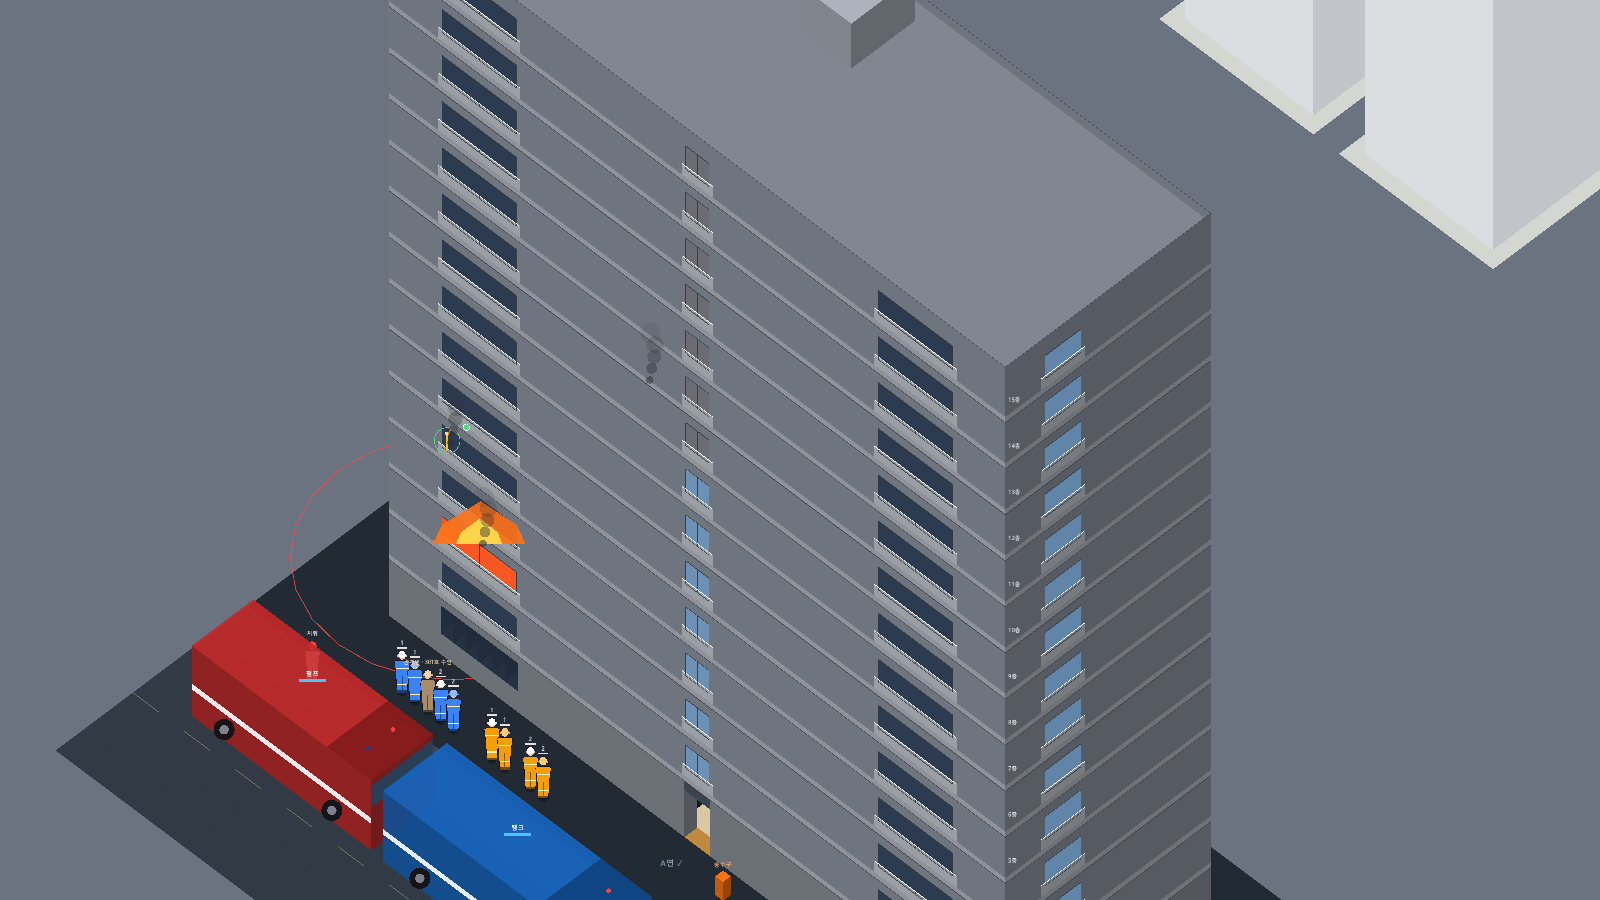
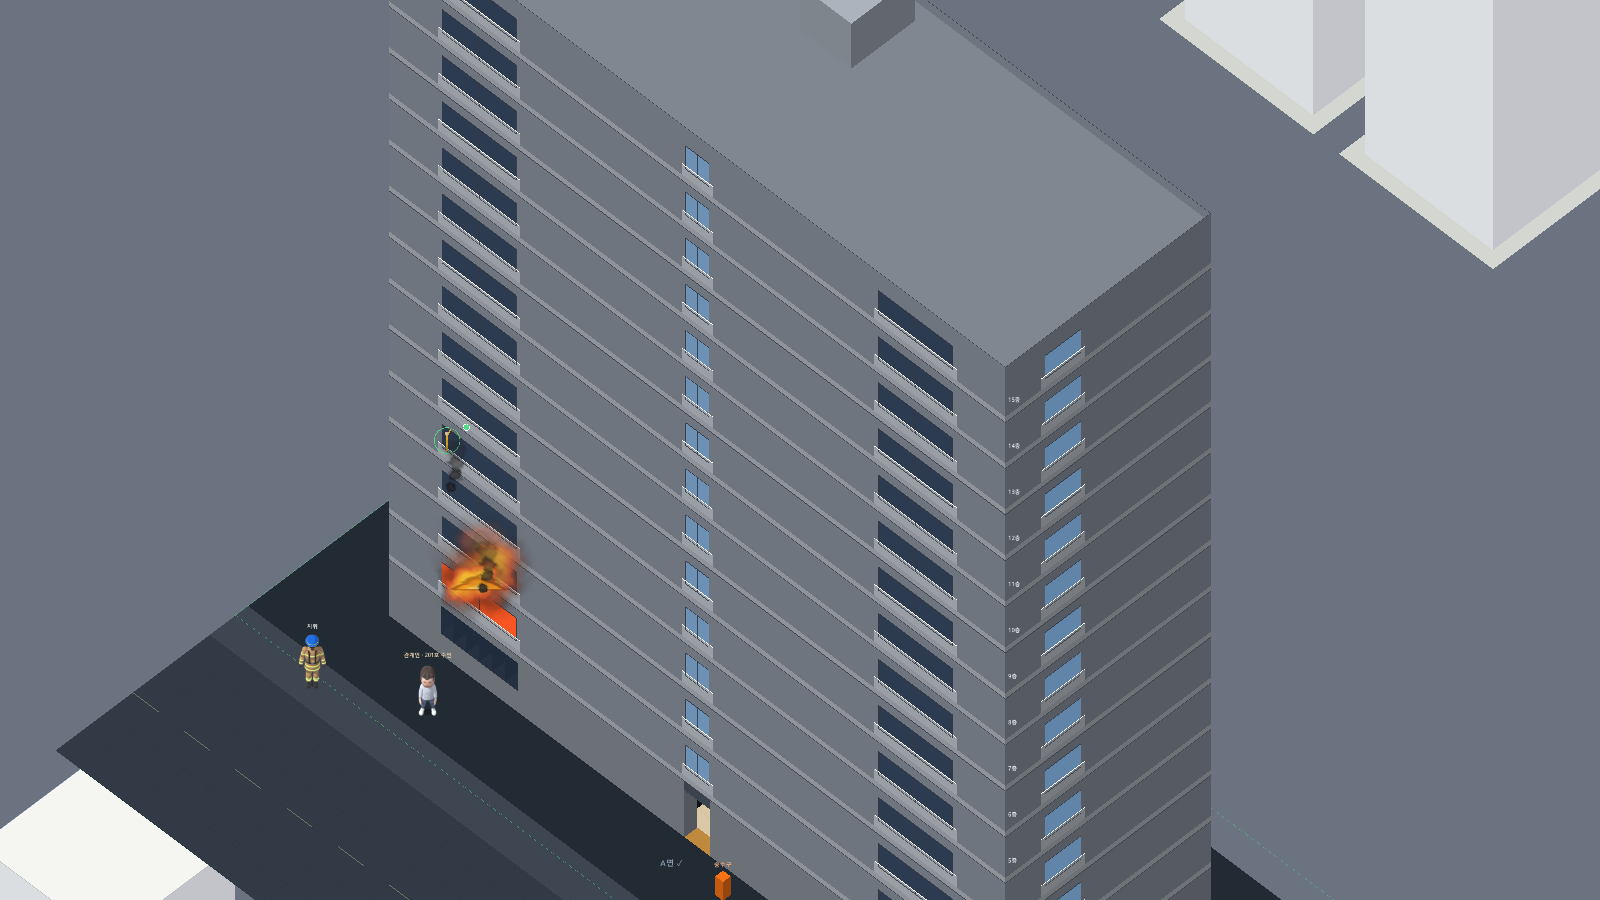
F01: 단면 보기 — 층 간격 220px, 다른 층은 벽 선·사람 테두리만(실루엣), 불을 아는 방 벽은 주황

diff --git a/docs/decisions.md b/docs/decisions.md
@@ -93,3 +93,4 @@
 | 2026-11-11 | P15 | 지휘관 헬멧 | 현장지휘관 헬멧만 파랑(#1F6FE5), 대원은 진압 검정·구조 주황·구급 흰색 그대로 | 사용자 결정 |
 | 2026-11-11 | P4-5 | 대원 이동·지시 방식 | 조 클릭은 선택만(원형 메뉴 폐지). 밖의 조 → 노란 진입구 클릭 → 문 앞 진입 허가 → 외벽 층 클릭 → (계단 둘 이상이면 대원이 묻고) 계단 클릭 → 방 클릭 → 화재진압·인명검색·직하층 확인. 땅 우클릭은 늘 지휘관 이동, 대상 우클릭은 임무. 여러 문에서 기다리면 동시 진입 허가 | 사용자 제안을 채택(SWAT 4 진입 지점·고 코드, XCOM 강조). 진입구 지정으로 포위 전술 유지, 계단은 발견했을 때 묻기(정보 원칙·SSG 4 급기측) |
 | 2026-11-11 | 무전 | 명령 지연 | 훈련·실전은 지휘관 지시를 바로 실행(무전 문장·복명복창은 기록에만), 대원 보고는 무전 지연 유지(글자당 절반). 실전·악조건은 통솔범위 초과 지연(이유를 화면에). 악조건은 예전처럼 무전이 끝나야 실행. 진입 허가 요청은 도착 즉시 카드 | 사용자 지적 '명령과 행동 사이 딜레이가 너무 많아 게임성이 떨어진다'. EMERGENCY·CoH처럼 즉시 반응 + 대답, 무전 통제 훈련은 악조건으로 |
+| 2026-11-11 | F01 | 단면 보기 다른 층 | 층 간격 160→220px. 고른 층 외 위·아래 층은 벽 선(외곽·방 벽)만 얇은 반투명 흰 선, 불을 아는 방의 벽만 주황. 가구·바닥·불·연기는 그리지 않음. 다른 층 대원은 몸 테두리 노랑, 발견한 요구조자는 빨강 — 지금 층 위에 비쳐 보임(X-ray) | 사용자 요청(위층이 지금 층을 가림). 불·연기 윤곽선은 복잡해져 빼고 층 막대 표시로 충분 |

diff --git a/docs/features.md b/docs/features.md
@@ -11,7 +11,7 @@
 
 | 번호 | 기능 | 지금 동작 | 주요 파일 | 연결 | 테스트 | 추천 | 결정 |
 |---|---|---|---|---|---|---|---|
-| F01 | 입체 보기: 외부 보기·층 단면 | 외부는 건물 외관(층 띠), 안은 초점 층 + 위아래 층을 반투명으로 쌓아 보임 | ui/building/floor_layer, ui/iso_view, ui/building/floor_stack | 그림·시야 → 모든 화면 | ui_cutaway, test_cutaway | 🔧 단면에서 위층 반투명 면이 불·대원을 가림 | |
+| F01 | 입체 보기: 외부 보기·층 단면 | 외부는 건물 외관(층 띠), 안은 초점 층 + 위아래 층을 반투명으로 쌓아 보임 | ui/building/floor_layer, ui/iso_view, ui/building/floor_stack | 그림·시야 → 모든 화면 | ui_cutaway, test_cutaway | 🔧 단면에서 위층 반투명 면이 불·대원을 가림 | 🔧 고침 (2026-11-11 실루엣 방식) — 확인 대기 |
 | F02 | 평면 보기 · 전술상황판(M·Tab) | 평면 보기(상황판 화면)와 전술상황판(보고된 것만 그린 평면도)이 따로 있음 | ui/floor_plan_view, ui/tactical_board, ui/board_map | 무전 보고(F35) | test_board | 🔧 두 평면 화면의 역할이 겹침 — 하나로 정리 | |
 | F03 | 카메라·층 막대·미니맵 | 휠 확대, 가운데 버튼 끌기, 층 막대 클릭, 미니맵 클릭 | ui/rts_camera, ui/floor_bar_view, ui/minimap_view | F01 | ui_smoke | ✅ | |
 | F04 | 그림: 대원·차량·가구, 불·연기 | Blender로 구운 8방향 그림, 셰이더 불꽃·연기 | ui/sprite_art, ui/fx_art, tools/blender | — | test_art | ✅ (오늘 완성) | |
